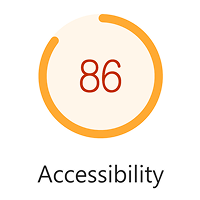
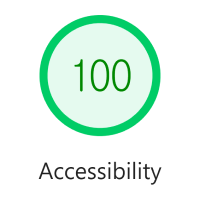
chore: lighthouse 수정사항 개선 완료.

diff --git a/portfolio/well-life/index.html b/portfolio/well-life/index.html
@@ -73,7 +73,7 @@
             <span class="hero-badge-icon">금연 클리닉</span>
           </div>
           <!-- hero-logo -->
-          <span class="hero-logo" aria-label="웰라이프내과 로고"></span>
+          <span class="hero-logo" role="img" aria-label="웰라이프내과 로고"></span>
           <!-- hero-title -->
           <h1 class="hero-title">
             <span>환자의 마음까지 치유해드리는</span>
@@ -88,12 +88,12 @@
           <!-- intro-heading -->
           <section class="intro-heading">
             <span class="intro-heading__title-mini title-sm" data-aos="fade-right">WELL LIFE LUNG CLINIC</span>
-            <h3 class="intro-heading__title" data-aos="fade-left">
+            <h2 class="intro-heading__title" data-aos="fade-left">
               <span>웰라이프내과의원은</span>
               <div class="mobile-flex-box">
                 <b>여러분에게</b> <em>가장 도움이 되는 치료</em><span>를 하겠습니다.</span>
               </div>
-            </h3>
+            </h2>
             <p class="intro-heading__desc" data-aos="fade-up">
               <span>
                 안녕하세요.
@@ -103,7 +103,8 @@
               <span>배운 전문 지식들과 여러 환자들을 진료하며 터득한 노하우로</span>
               <span>저희 병원에 방문하신 모든 환자분들께 최선의 진료를 할 수 있도록 정성을 다하겠습니다.</span>
             </p>
-            <span class="intro-heading__bg heading-bg">LUNG CLINIC</span>
+            <span class="intro-heading__bg" aria-hidden="true"></span>
+            <!-- <span class="intro-heading__bg"></span> -->
           </section>
           <!-- intro-image -->
           <section class="intro-image">
@@ -160,9 +161,9 @@
                   <span># 공감해 주고</span>
                   <span># 설명을 잘해 주는</span>
                 </div>
-                <h1 class="why-heading__title-main">
+                <h2 class="why-heading__title-main">
                   당신의 <b>든든한</b> 평생주치의
-                </h1>
+                </h2>
               </div>
             </div>
           </section>
@@ -187,11 +188,11 @@
             </div>
           </div>
           <!-- why-slogan -->
-          <h5 class="why-slogan" data-aos="fade-up">
+          <h3 class="why-slogan" data-aos="fade-up">
             <span>내 가족을 대하는 진심과 정성으로</span>
             <span>평생 건강을 책임지는</span>
             웰라이프내과의원이 되도록 노력하겠습니다.
-          </h5>
+          </h3>
         </div>
       </section>
 
@@ -733,7 +734,7 @@
                   <div class="direction-heading__way-top-icon--subway way-icon">
                     <img src="./images/main-page/directions/directions-icon--subway.png" alt="지하철 아이콘">
                   </div>
-                  <h4 class="direction-heading__way-top-title">지하철 이용시</h4>
+                  <b class="direction-heading__way-top-title">지하철 이용시</b>
                 </div>
                 <div class="direction-heading__way-bottom">
                   <span class="direction-heading__way-bottom-badge--subway">7호선 자양역</span>
@@ -746,7 +747,7 @@
                   <div class="direction-heading__way-top-icon--bus way-icon">
                     <img src="./images/main-page/directions/directions-icon--bus.png" alt="버스 아이콘">
                   </div>
-                  <h4 class="direction-heading__way-top-title">버스 이용시</h4>
+                  <b class="direction-heading__way-top-title">버스 이용시</b>
                 </div>
                 <div class="direction-heading__way-bottom">
                   <p class="direction-heading__way-bottom-label">신양초등학교앞 정류장</p>
@@ -762,7 +763,7 @@
                   <div class="direction-heading__way-top-icon--parking way-icon">
                     <img src="./images/main-page/directions/directions-icon--parking.png" alt="주차 아이콘">
                   </div>
-                  <h4 class="direction-heading__way-top-title">주차안내</h4>
+                  <b class="direction-heading__way-top-title">주차안내</b>
                 </div>
                 <div class="direction-heading__way-bottom">
                   <p class="direction-heading__way-bottom-label">건물 내 주차장 이용</p>

diff --git a/portfolio/well-life/css/pages/main-page/main-page-responsive.css b/portfolio/well-life/css/pages/main-page/main-page-responsive.css
@@ -52,6 +52,14 @@
   .intro-heading {
     gap: var(--spacing-24);
   }
+  .intro-heading__title {
+    font-size: var(--font-size-xl);
+  }
+  .intro-heading__bg {
+    font-size: 100px;
+    padding: 0 var(--section-padding-h-tablet);
+    top: calc(50% + var(--spacing-8));
+  }
 
   /* intro-image */
   .intro-image {
@@ -403,6 +411,7 @@
   }
   .direction-heading__way-top-title {
     margin-top: var(--spacing-12);
+    font-size: var(--font-size-large);
   }
   .direction-heading__way-bottom {
     gap: var(--spacing-8);
@@ -504,6 +513,9 @@
   .intro-heading {
     gap: var(--spacing-16);
   }
+  .intro-heading__title {
+    font-size: var(--font-size-large);
+  }
   .intro-heading__title .mobile-flex-box {
     display: flex;
     justify-content: center;
@@ -527,7 +539,10 @@
     flex-wrap: wrap;
   }
   .intro-heading__bg {
-    top: calc(50% - -12px);
+    top: calc(50% - 8px);
+    padding: 0 var(--section-padding-h-mobile);
+    font-size: 64px;
+    line-height: 1em;
   }
   
   /* intro-image */
@@ -573,7 +588,7 @@
     flex-wrap: wrap;
     justify-content: center;
     -moz-column-gap: var(--spacing-8);
-         column-gap: var(--spacing-8);
+    column-gap: var(--spacing-8);
   }
 
   /* why-badge */

diff --git a/portfolio/well-life/css/pages/main-page/main-page.css b/portfolio/well-life/css/pages/main-page/main-page.css
@@ -107,6 +107,7 @@
   font-family: var(--font-KR-light);
   line-height: var(--line-height-normal);
   text-align: center;
+  font-size: var(--font-size-2xl);
 }
 .intro-heading__title b {
   font-family: var(--font-KR-bold);
@@ -123,8 +124,23 @@
   display: block;
 }
 .intro-heading__bg {
-  top: calc(50% + 24px);
+  position: absolute;
+  top: calc(50% + var(--spacing-24));
   left: 50%;
+  transform: translate(-50%, -50%);
+  width: 100vw;
+  padding: 0 var(--section-padding-h-pc);
+  font-size: 140px;
+  font-family: var(--font-EN-black);
+  text-align: center;
+  letter-spacing: 12px;
+  line-height: 1em;
+  color: var(--bg-text-background);
+  pointer-events: none;
+  z-index: -1;
+}
+.intro-heading__bg::after {
+  content: "LUNG CLINIC";
 }
 
 /* intro-image */
@@ -1131,6 +1147,7 @@
 }
 .direction-heading__way-top-title {
   margin-top: var(--spacing-24);
+  font-size: var(--font-size-xl);
   color: var(--theme-secondary);
 }
 .direction-heading__way-bottom {

diff --git a/index.html b/index.html
@@ -769,7 +769,7 @@
                     <ul class="web-info__accessibility-list">
                       <li class="web-info__accessibility-list-item">
                         <p>
-                          <span class="font-en">Lighthouse Score</span> <b class="font-kr">100점</b>
+                          <span class="font-en">Lighthouse</span> <b class="font-kr">접근성 100점</b>
                         </p>
                       </li>
                       <li class="web-info__accessibility-list-item">

diff --git a/portfolio/well-life/css/common/common-responsive.css b/portfolio/well-life/css/common/common-responsive.css
@@ -23,12 +23,6 @@
   h5 {
     font-size: var(--font-size-medium);
   }
-
-  /* HEADING-BG */
-  .heading-bg {
-    font-size: 100px;
-    padding: 0 var(--section-padding-h-tablet);
-  }
   /* ---------- END - COMMON ----------  */
 
   
@@ -185,13 +179,6 @@
   /* 미니 타이틀 */
   .title-sm {
     font-size: 12px;
-  }
-
-  /* HEADING-BG */
-  .heading-bg {
-    font-size: 64px;
-    padding: 0 var(--section-padding-h-mobile);
-    line-height: 1.2em;
   }
   /* ---------- END - COMMON ----------  */
 

diff --git a/portfolio/well-life/css/common/common.css b/portfolio/well-life/css/common/common.css
@@ -137,22 +137,6 @@ h5 {
   line-height: var(--line-height-high);
 }
 
-/* HEADING-BG */
-.heading-bg {
-  position: absolute;
-  transform: translate(-50%, -50%);
-  width: 100vw;
-  padding: 0 var(--section-padding-h-pc);
-  font-size: 120px;
-  font-family: var(--font-EN-black);
-  text-align: center;
-  letter-spacing: 12px;
-  line-height: 1em;
-  color: var(--bg-text-background);
-  pointer-events: none;
-  z-index: -1;
-}
-
 /* img-box */
 .img-box img {
   display: block;

diff --git a/portfolio/well-life/includes/header.html b/portfolio/well-life/includes/header.html
@@ -1,6 +1,6 @@
 <div class="header-inner inner">
   <!-- header-logo -->
-  <a class="header-logo" href="/portfolio/well-life/index.html"></a>
+  <a class="header-logo" href="/portfolio/well-life/index.html" aria-label="웰라이프내과의원 홈"></a>
   <!-- header__gnb -->
   <div class="header-gnb">
     <a class="header-gnb__link" href="/portfolio/well-life/index.html#intro">인사말</a>
